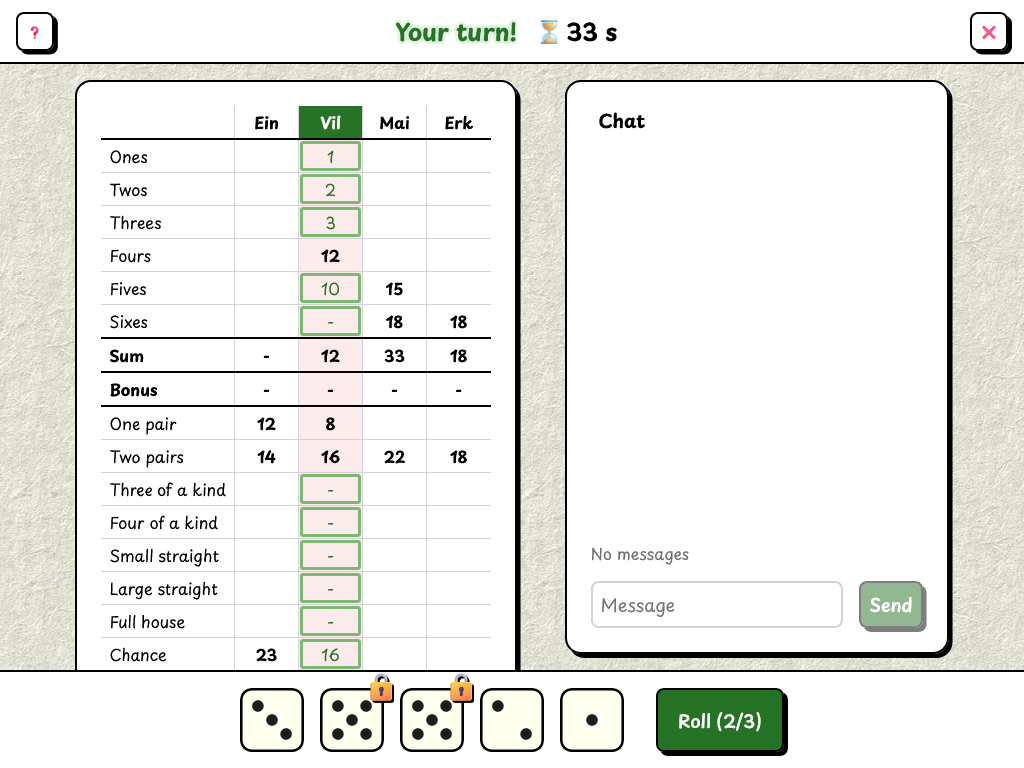
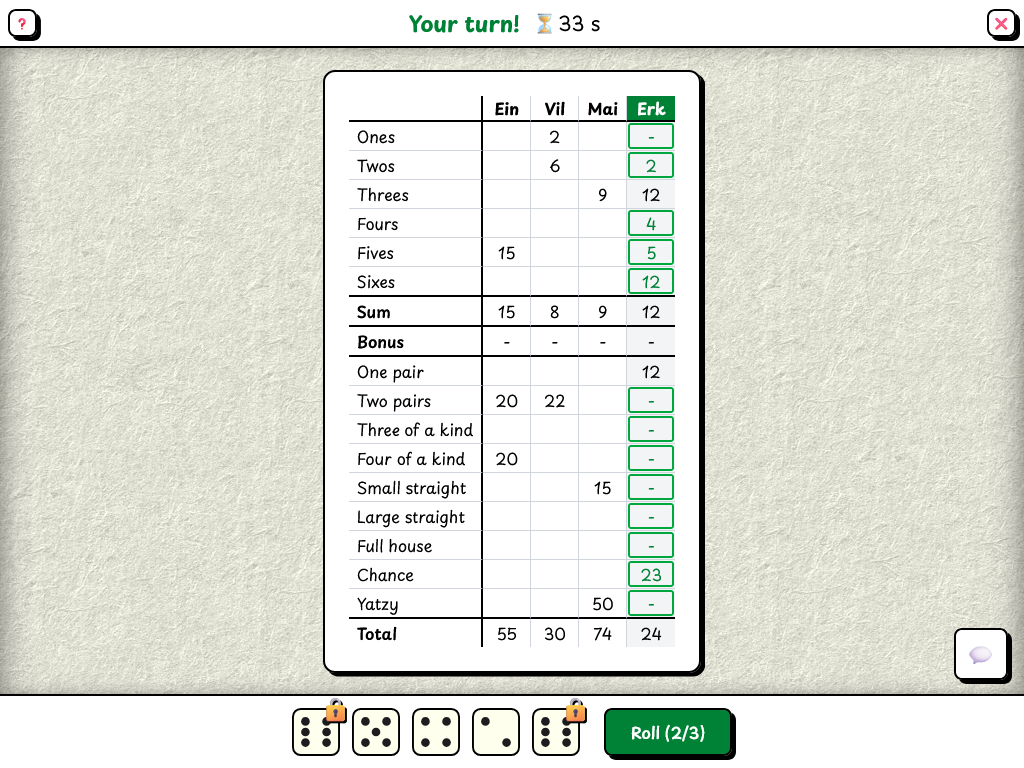
update readme and screenshots. small ui adjustments.

diff --git a/client/src/pages/Game.tsx b/client/src/pages/Game.tsx
@@ -72,7 +72,7 @@ function Game({ room, playerId, onLeave, onPlayAgain }: Props) {
         </a>
         <div className="flex flex-1 justify-between md:justify-center items-center gap-4 min-w-0">
           <h2
-            className={`truncate md:text-xl font-bold pl-4 ${isMyTurn && "text-primary"} ${!currentPlayer?.connected && "text-red-600"}`}
+            className={`truncate md:text-xl font-bold pl-4 ${isMyTurn && "text-primary animate-pulse-text"} ${!currentPlayer?.connected && "text-red-600"}`}
           >
             {currentPlayer?.connected
               ? isMyTurn
@@ -137,7 +137,7 @@ function Game({ room, playerId, onLeave, onPlayAgain }: Props) {
         {/* Open chat: just above the footer, on the right */}
         <button
           type="button"
-          className={`btn absolute right-4 bottom-full mb-4 bg-white p-1 text-3xl ${chatOpen && "hidden"}`}
+          className={`btn absolute right-4 bottom-full mb-4 bg-white p-2 text-2xl ${chatOpen && "hidden"}`}
           aria-label="Chat"
           title="Chat"
           onClick={() => {

diff --git a/client/src/components/Dice.tsx b/client/src/components/Dice.tsx
@@ -57,7 +57,7 @@ function Dice({ room, isMyTurn, busy, onRoll }: Props) {
       <div key={room.rollsLeft} className="flex gap-3">
         {room.dice.map((value, index) => (
           <button
-            className="relative w-12 data-[spinning=true]:animate-dice-spin enabled:hover:cursor-pointer enabled:hover:scale-110 select-none"
+            className="relative w-12 data-[spinning=true]:animate-dice-spin enabled:hover:cursor-pointer enabled:hover:scale-110 transition-[scale] duration-100 ease-out select-none"
             data-spinning={rolling && !held[index]} // Constant "loading" spin
             key={index}
             type="button"
@@ -73,7 +73,7 @@ function Dice({ room, isMyTurn, busy, onRoll }: Props) {
               alt={String(value)}
               draggable="false"
             />
-            {held[index] && (
+            {held[index] && room.rollsLeft > 0 && (
               <span
                 className="absolute -top-4 -right-3 text-2xl text-shadow-[2px_2px_black] z-2"
                 aria-hidden="true"

diff --git a/client/src/index.css b/client/src/index.css
@@ -12,6 +12,7 @@
   --animate-dice-spin: dice-spin 0.25s linear infinite;
   --animate-dice-land: dice-land 1s ease-out;
   --animate-pulse-outline: pulse-outline 1s ease-in-out infinite;
+  --animate-pulse-text: pulse-text 2s ease-in-out infinite;
 
   @keyframes dice-spin {
     to {
@@ -28,6 +29,12 @@
   @keyframes pulse-outline {
     50% {
       outline-color: transparent;
+    }
+  }
+
+  @keyframes pulse-text {
+    50% {
+      transform: scale(1.1);
     }
   }
 }

diff --git a/client/src/pages/Lobby.tsx b/client/src/pages/Lobby.tsx
@@ -38,7 +38,7 @@ function Lobby({ room, playerId, onLeave }: Props) {
         </h1>
         <button
           type="button"
-          className="btn p-2 text-black font-medium text-sm bg-yellow-100"
+          className="btn p-2 text-black font-medium text-sm bg-yellow-50"
           onClick={copyLink}
         >
           {copied ? "Copied!" : "Copy link"}

diff --git a/client/src/pages/MainMenu.tsx b/client/src/pages/MainMenu.tsx
@@ -32,7 +32,7 @@ function MainMenu() {
 
       {message && (
         <p
-          className="bg-red-200 p-4 rounded-lg text-red-700 text-center"
+          className="bg-red-200 p-4 rounded-lg text-black text-center"
           role="status"
         >
           {message}

diff --git a/client/src/components/TurnTimer.tsx b/client/src/components/TurnTimer.tsx
@@ -16,7 +16,7 @@ function TurnTimer({ endsAt }: Props) {
 
   return (
     <span
-      className="min-w-16 md:text-xl md:min-w-24"
+      className="min-w-16 md:text-xl md:min-w-24 tabular-nums"
       title="Seconds left in this turn"
     >
       ⏳{secondsLeft} s

diff --git a/README.md b/README.md
@@ -1,24 +1,26 @@
-# 🎲 [Yatzy](https://freeyatzy.com/)
+# 🎲 Yatzy
 
-A multiplayer browser game written in TypeScript. A monorepo using npm workspaces.
+A multiplayer browser game.
 
-Play a game of Yatzy quickly and easily, without logging in. Open a new room with a single click, invite others with a link, and start the game. Select the dice to roll, and mark a score. A per-game chat is included.
+**Play: [freeyatzy.com](https://freeyatzy.com/)**
 
-## How it works
-
-The client is a React single page app. Styling is done using plain CSS modules, and the layout is responsive and mobile-friendly. Using WebSockets, clients emit only intent and render the updated state.
-
-The server (node, express, socket.io) is the only source of truth, including scores and security. Players are authenticated by a secret token issued by the server, and it's validated only during a socket connection handshake. Tokens, IDs and dice rolls use cryptographic randomness.
-
-A Redis database is used as state storage for games, players and timers, as well as a pub/sub adapter for socket.io. This allows for scaling to multiple server instances and fast operations.
+Spin up a game of Yatzy quickly and easily, without logging in. Open a new room with a single click, invite others with a link, and start the game. Select the dice to roll, and mark a score. An in-game chat is included.
 
 ## Tech stack
 
-- **React + Vite** front end
+- **React + Tailwind + Vite** front end
 - **Node** back end
 - **Express** for HTTP routes
-- **Socket.io** for real time communication
+- **Socket.IO** for real time communication
 - **Redis** as state storage
+
+TypeScript monorepo, npm workspaces.
+
+The client is a single page app, and the UI is responsive and mobile-friendly. Using WebSockets, clients emit only intent and render the updated state.
+
+The server is the only source of truth, including scores and security. Players are authenticated by a secret token issued by the server, checked once at the socket connection handshake. Tokens, IDs and dice rolls use cryptographic randomness.
+
+The Redis database is used as state storage for games, players and timers, as well as a pub/sub adapter for sockets. This allows for scaling to multiple server instances and fast operations.
 
 ## Development setup
 
@@ -37,6 +39,8 @@ npm install
 npm run dev
 ```
 
+- Open http://localhost:5173
+
 ## API and socket events
 
 Room creation and players joining use HTTP, because sockets need a valid auth token from the beginning. This is returned from the POST join route. Everything else uses WebSockets.
@@ -51,20 +55,22 @@ Room creation and players joining use HTTP, because sockets need a valid auth to
 
 ### Socket events
 
-| Event          | Payload               | Direction        |                                                  |
+| Event          | Payload               | Direction        | Notes                                            |
 | -------------- | --------------------- | ---------------- | ------------------------------------------------ |
 | `game:start`   |                       | Client to server | Host only                                        |
 | `turn:roll`    | `{ held: boolean[] }` | Client to server | Rolls the dice that aren't held                  |
-| `turn:end`     | `{ category }`        | Client to server | End turn and select scoring category             |
+| `turn:end`     | `{ category }`        | Client to server | Select score category and end turn               |
 | `chat:send`    | `{ text }`            | Client to server | Character limit: 200                             |
-| `room:leave`   |                       | Client to server | Removes player and wipes session                 |
+| `room:leave`   |                       | Client to server | Removes player and deletes token                 |
 | `room:state`   | `PublicRoomState`     | Server to client | Sent to the whole room after every change        |
 | `chat:message` | `ChatMessage`         | Server to client | Not stored on server, just validated and emitted |
 
 ## Screenshots
 
+![Main menu](./screenshots/mainmenu.png "Main menu")
+
 ![Lobby](./screenshots/lobby.png "Lobby")
 
 ![Gameplay](./screenshots/game.png "Gameplay")
 
-![Results](./screenshots/results.png "Game over, results")
+![Results](./screenshots/results.png "Results")
